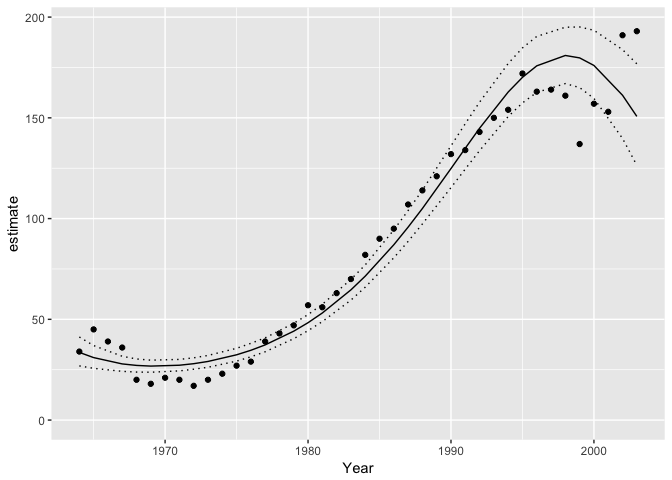
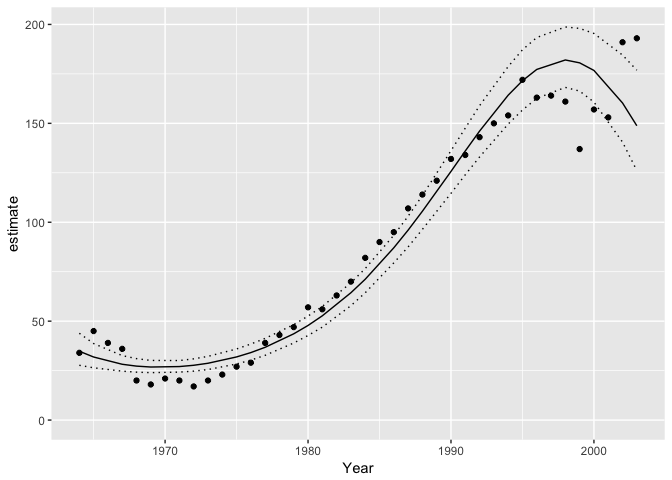
renamed mAICc as AICc

diff --git a/README.md b/README.md
@@ -68,18 +68,18 @@ plot(analysis)
 
 glance(analysis)
 #> # A tibble: 1 × 6
-#>       n     k logLik mAICc minutes converged
+#>       n     K logLik  AICc minutes converged
 #>   <int> <int>  <dbl> <dbl>   <int>     <lgl>
 #> 1    40     5     NA    NA       0      TRUE
 tidy(analysis)
 #> # A tibble: 5 × 5
-#>              term    estimate  std.error   statistic p.value
-#> *           <chr>       <dbl>      <dbl>       <dbl>   <dbl>
-#> 1           alpha  4.21873054 0.03946038 106.9092386  0.0005
-#> 2           beta1  1.16316340 0.06711848  17.3950563  0.0005
-#> 3           beta2  0.01587602 0.03043821   0.5006879  0.6080
-#> 4           beta3 -0.25704091 0.03431748  -7.5199858  0.0005
-#> 5 log_sDispersion -2.26262759 0.29950177  -7.6296822  0.0005
+#>              term    estimate  std.error statistic p.value
+#> *           <chr>       <dbl>      <dbl>     <dbl>   <dbl>
+#> 1           alpha  4.21520573 0.04420050 95.266813  0.0005
+#> 2           beta1  1.19121262 0.07598362 15.651727  0.0005
+#> 3           beta2  0.02118848 0.03324958  0.711245  0.4810
+#> 4           beta3 -0.27266083 0.03864932 -7.011786  0.0005
+#> 5 log_sDispersion -2.19376890 0.26965820 -8.205492  0.0005
 
 year <- predict(analysis, new_data = new_data(data, "Year"))
 
